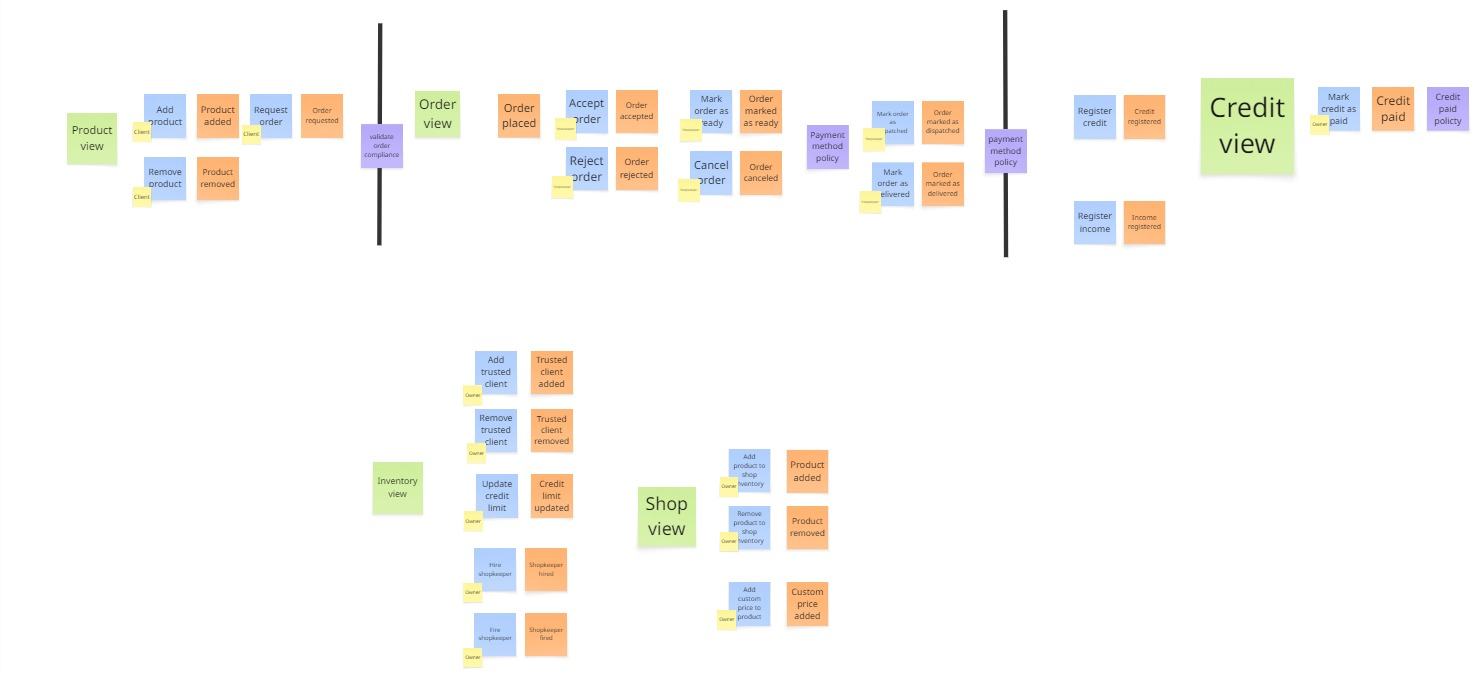
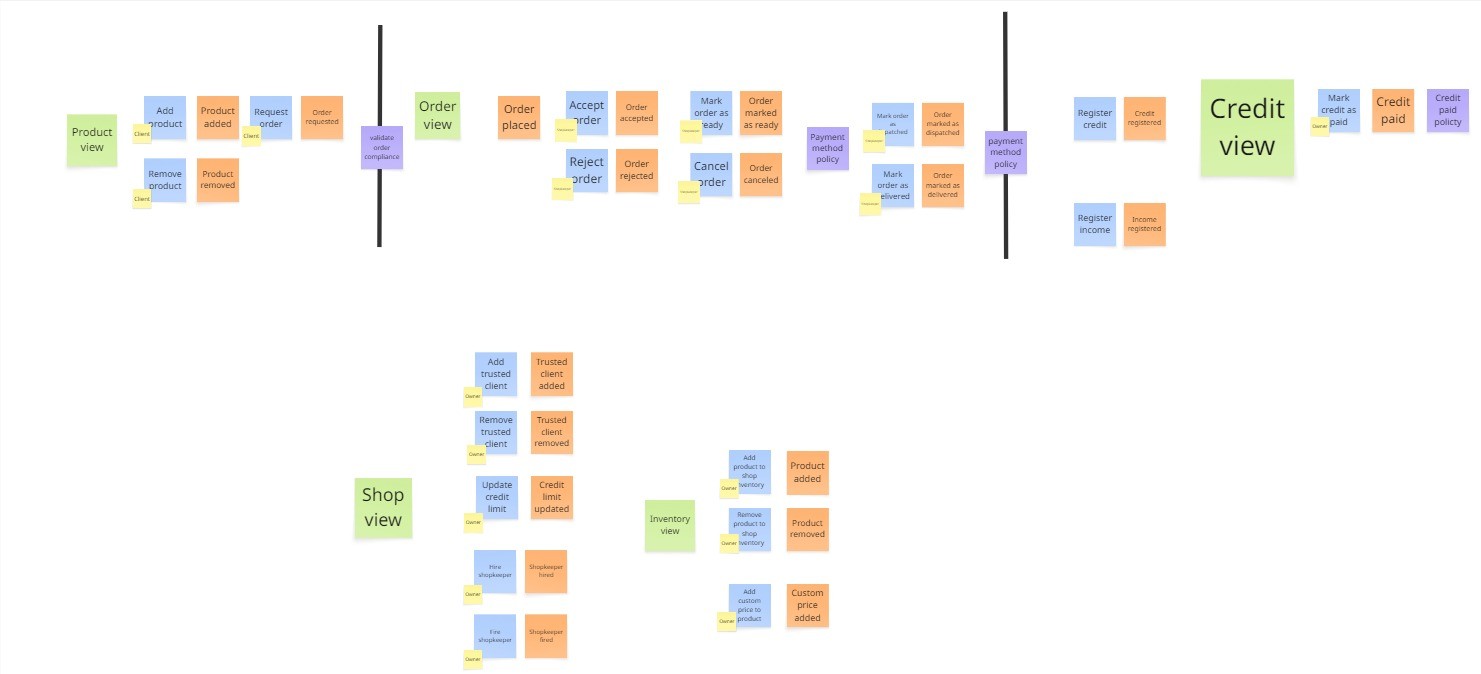
fix: amend bc discovery descriptions to allign with updated domain model

diff --git a/sections/capitulo_2/strategic_design/eventstorming/bc_discovery.md b/sections/capitulo_2/strategic_design/eventstorming/bc_discovery.md
@@ -8,43 +8,59 @@ Para la identificación de los bounded context se ha utilizado la técnica start
 
 **PASO 1: IDENTIFICAR EVENTOS**
 <img src="../../../../img/strategic-design/eventstorming/step1.jpg" alt="Eventstorming step 1, Events identification">
+
 Como primer paso de la técnica de Eventstorming se identifico todos los eventos posibles en equipo. Tomando en cuenta los conocimientos del dominio en el cual estamos trabajando. Los eventos son idenfiticados con post-its naranjas y con el formato **SUSTANTIVO + VERBO EN PASADO**
 
 **PASO 2: ORDENAR EVENTOS**
 <img src="../../../../img/strategic-design/eventstorming/step2.jpg" alt="Eventstorming step 2, Sort events">
+
 Posterior a la identificación de eventos se procede a ordenarlos en base a secuencias lógicas que se identificaron en el equipo. En este caso se puede observar en la parte superior de la imagen como se ordena los eventos necesarios para completar todo el ciclo de vida de una orden.
 
 **PASO 3: DETERMINAR PIVOTAL POINTS**
 <img src="../../../../img/strategic-design/eventstorming/step3.jpg" alt="Eventstorming step 3, pivotal points identification">
+
 Para darle un orden aún más claro y preciso a los eventos identificados, se determina los pivotal points del dominio. Estas segmentaciones dentro del dominio son cambios importantes y que representan un antes y después. En este caso cuando un conjunto de productos se convierten en su conjunto en una orden. Así como marcar una orden como entregada para disparar un evento de registro de ingreso monetario para la bodega. Los pivotal points son identificados con una barra negra vertical.
 
 **PASO 4: IDENTIFICAR COMANDOS**
 <img src="../../../../img/strategic-design/eventstorming/step4.jpg" alt="Eventstorming step 4, command identification">
+
 Habiendo identificado y ordenado eventos y puntos clave en el dominio es necesario reconocer los comandos que los desencadena. De esta manera se determina las acciones que traen por consecuente a los eventos del dominio. Los comandos son identificados con post-its azules claros y con el formato **VERBO EN PRESENTE + SUSTANTIVO**
 
 **PASO 5: IDENTIFICAR POLITICAS**
 <img src="../../../../img/strategic-design/eventstorming/step5.jpg" alt="Eventstorming step 5, policies identification">
+
 Trabajar en un dominio implica responder a reglas especificas de negocio, en este caso se identifican 3 reglas de negocio importantes. Las tres estrechamente relacionadas con los pagos y fiados de las bodegas. Identificar las politicas del dominio nos permitira, posteriormente, dar forma a los contextos del dominio. Las politicas se identifican con post-its moradas.
 
 **PASO 6: IDENTIFICAR VISTAS**
 <img src="../../../../img/strategic-design/eventstorming/step6.jpg" alt="Eventstorming step 6, view/read model identification">
+
 Eventos y comandos transcurren en distintas partes de un sistema, para evitar confusiones e ir definiendo el diseño de la aplicación se identifican a gran escala en que "pantallas" transcurren los eventos y coamndos. Las vistas son identificadas con post-its verdes.
 
 **PASO 7: IDENTIFICAR ACTORES**
 <img src="../../../../img/strategic-design/eventstorming/step7.jpg" alt="Eventstorming step 7, actors identification">
+
 Los comandos, en su mayoría, son accionados por intervención de usuarios. En este caso se vincula gran porcentaje de los comandos a sus respectivos usuarios activadores: Dueños, tenderos y clientes. Se observa que algunos comandos no tienen actores, esto es debido a que son comandos que se activan por el sistema, más adelante se detallara a fondo. Los actores son representados por post-its amarillos justo en la esquina inferior izquierda de los comandos. 
 
 **PASO 8: IDENTIFICAR AGREGADOS**
 <img src="../../../../img/strategic-design/eventstorming/step8.jpg" alt="Eventstorming step 8, Aggregates identification">
-Posterior a la identificación de eventos, comandos, vistas, politicas y actores se tiene que definir los agregados del dominio. En este caso se identifica 6 agregados:
+
+Posterior a la identificación de eventos, comandos, vistas, politicas y actores se tiene que definir los agregados del dominio. En este caso se identifica 7 agregados:
 - Shopping bag. Encargado de almacenar los productos de un cliente, antes de ser considerado una orden.
-- Inventory. Representa el stock de una bodega.
-- Shop. Representa a la bodega, manejando sus tenderos, clientes confiables y politicas de fiado.
-- Credit. Se trata del fiado, almacena la información necesario para su posterior pago.
-- Checkout. Representa la caja financiera de la bodega, almacena los ingresos ocasionados a través de las ordenes.
+- Product. Representa un producto ofertado dentro de una bodega.
+- Shop. Representa a la bodega con sus políticas.
+- Debt. Representa una deuda resultado de una compra mediante fiado.
+- Payment. Representa los ingresos resultado de las ordenes.
+- Trusted client. Representa un cliente que recibe la confianza del dueño para poder acceder al fiado.
+- Shopkeeper. Representa a un tendero que trabaja en una bodega para el dueño de esta.
 - Order. Representa la orden en si misma, desde su concepción a través del shopping bag, hasta su entrega al cliente. Tiene ciertas caracteristicas propias y complejas de una orden.
 
 **PASO 9: DEFINIR CONTEXTOS**
 <img src="../../../../img/strategic-design/eventstorming/step9.jpg" alt="Eventstorming step 9, bounded contexts definition">
-Finalmente, con los agregados estructurados y las politicas parametrizadas se puede definir los contextos del dominio. El equipo de desarrollo determino 4 contextos en base a las funcionalidades identificadas del dominio. Order context, que se encarga del ciclo de vida de una orden, Checkout context que se encarga de las finanzas de la bodega, Inventory context que es basicamente el stock de la bodega y Shop context, que representa a la bodega en su totalidad.
+
+Finalmente, con los agregados estructurados y las politicas parametrizadas se puede definir los contextos del dominio. El equipo de desarrollo determino 5 contextos en base a las funcionalidades identificadas del dominio utilizando la técnica de **start-with-simple**
+- **Shopping context** se encarga del proceso de planificación de una orden previo al compromiso de despacho
+- **Order context** se encarga del ciclo de vida de una orden
+- **Checkout context** gestiona los pagos y registra los ingresos y deudas
+- **Inventory context** control de stock de productos
+- **Shop context** que representa a la bodega en su totalidad.
 Los contextos son representados a través de las figuras que rodean a los eventos, comandos, agregados y politicas. Se observa que los contextos se comunican a través de las politicas.
